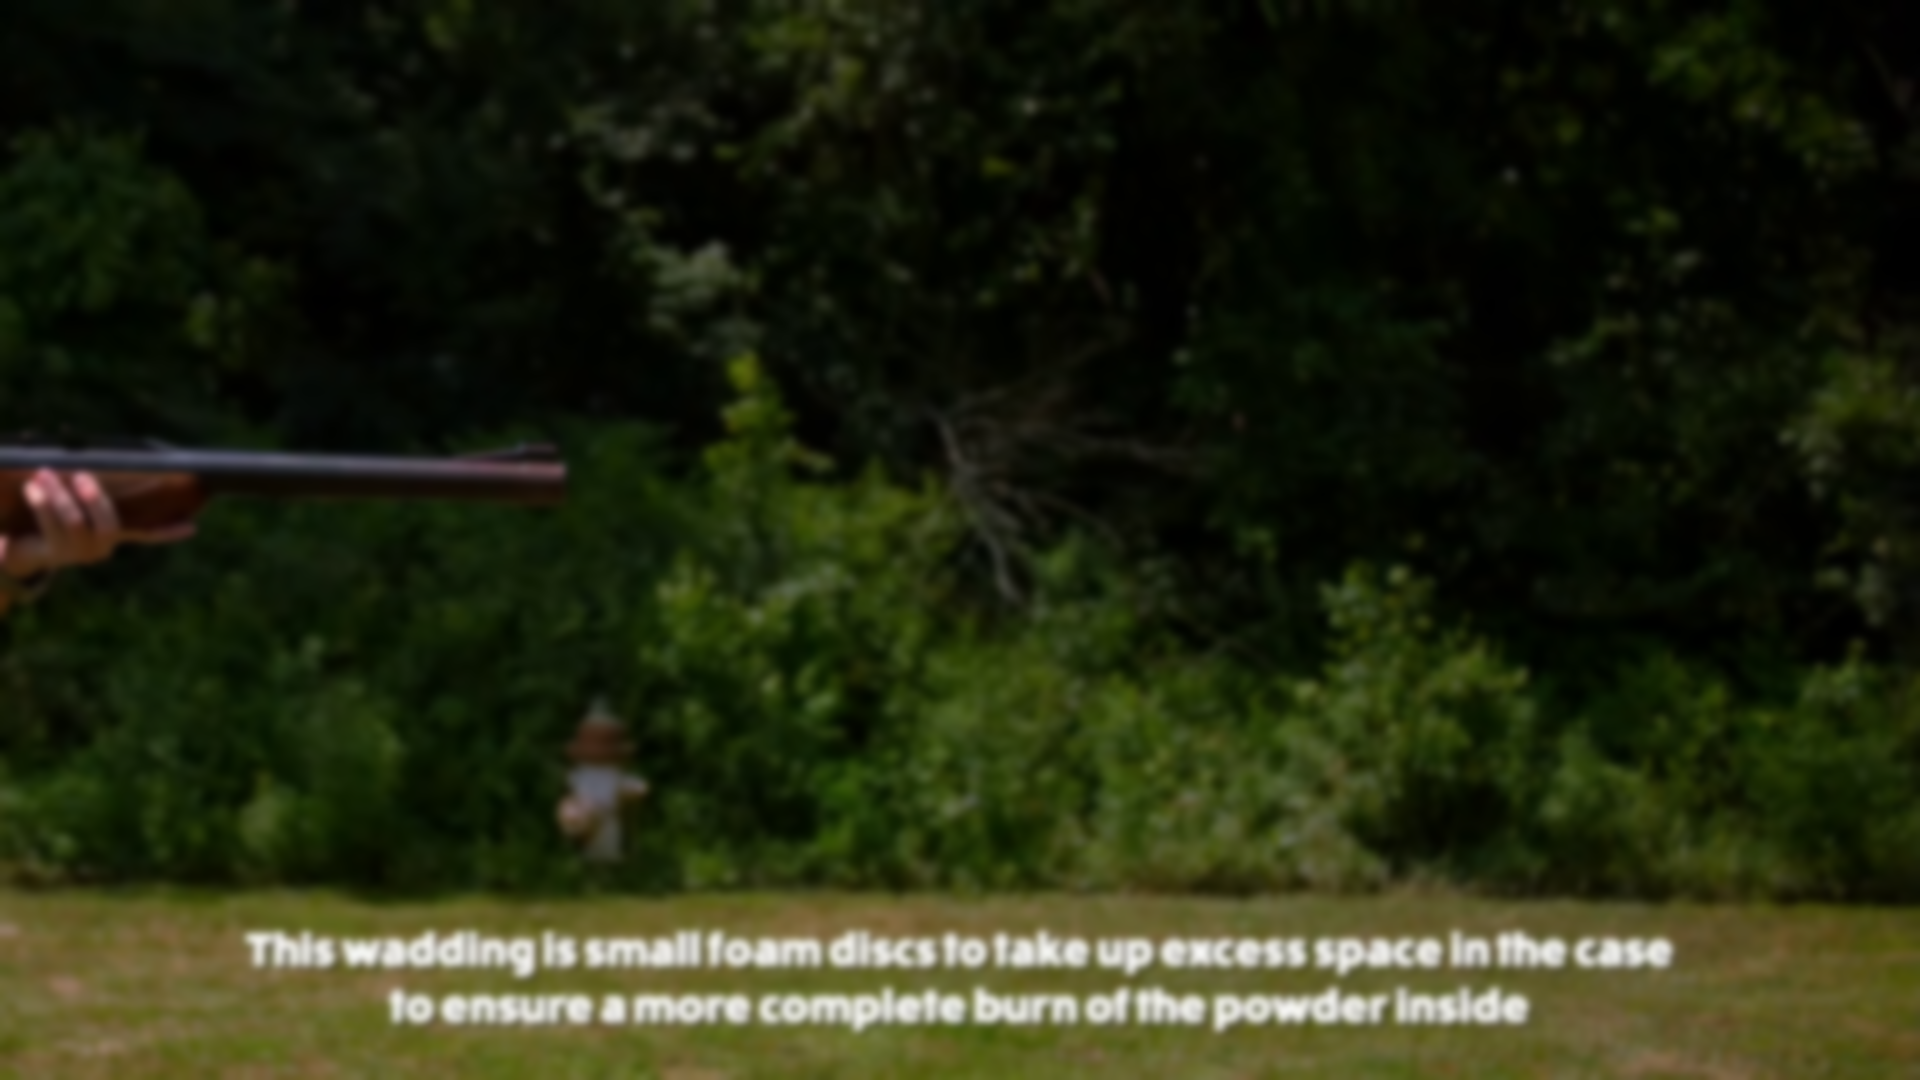
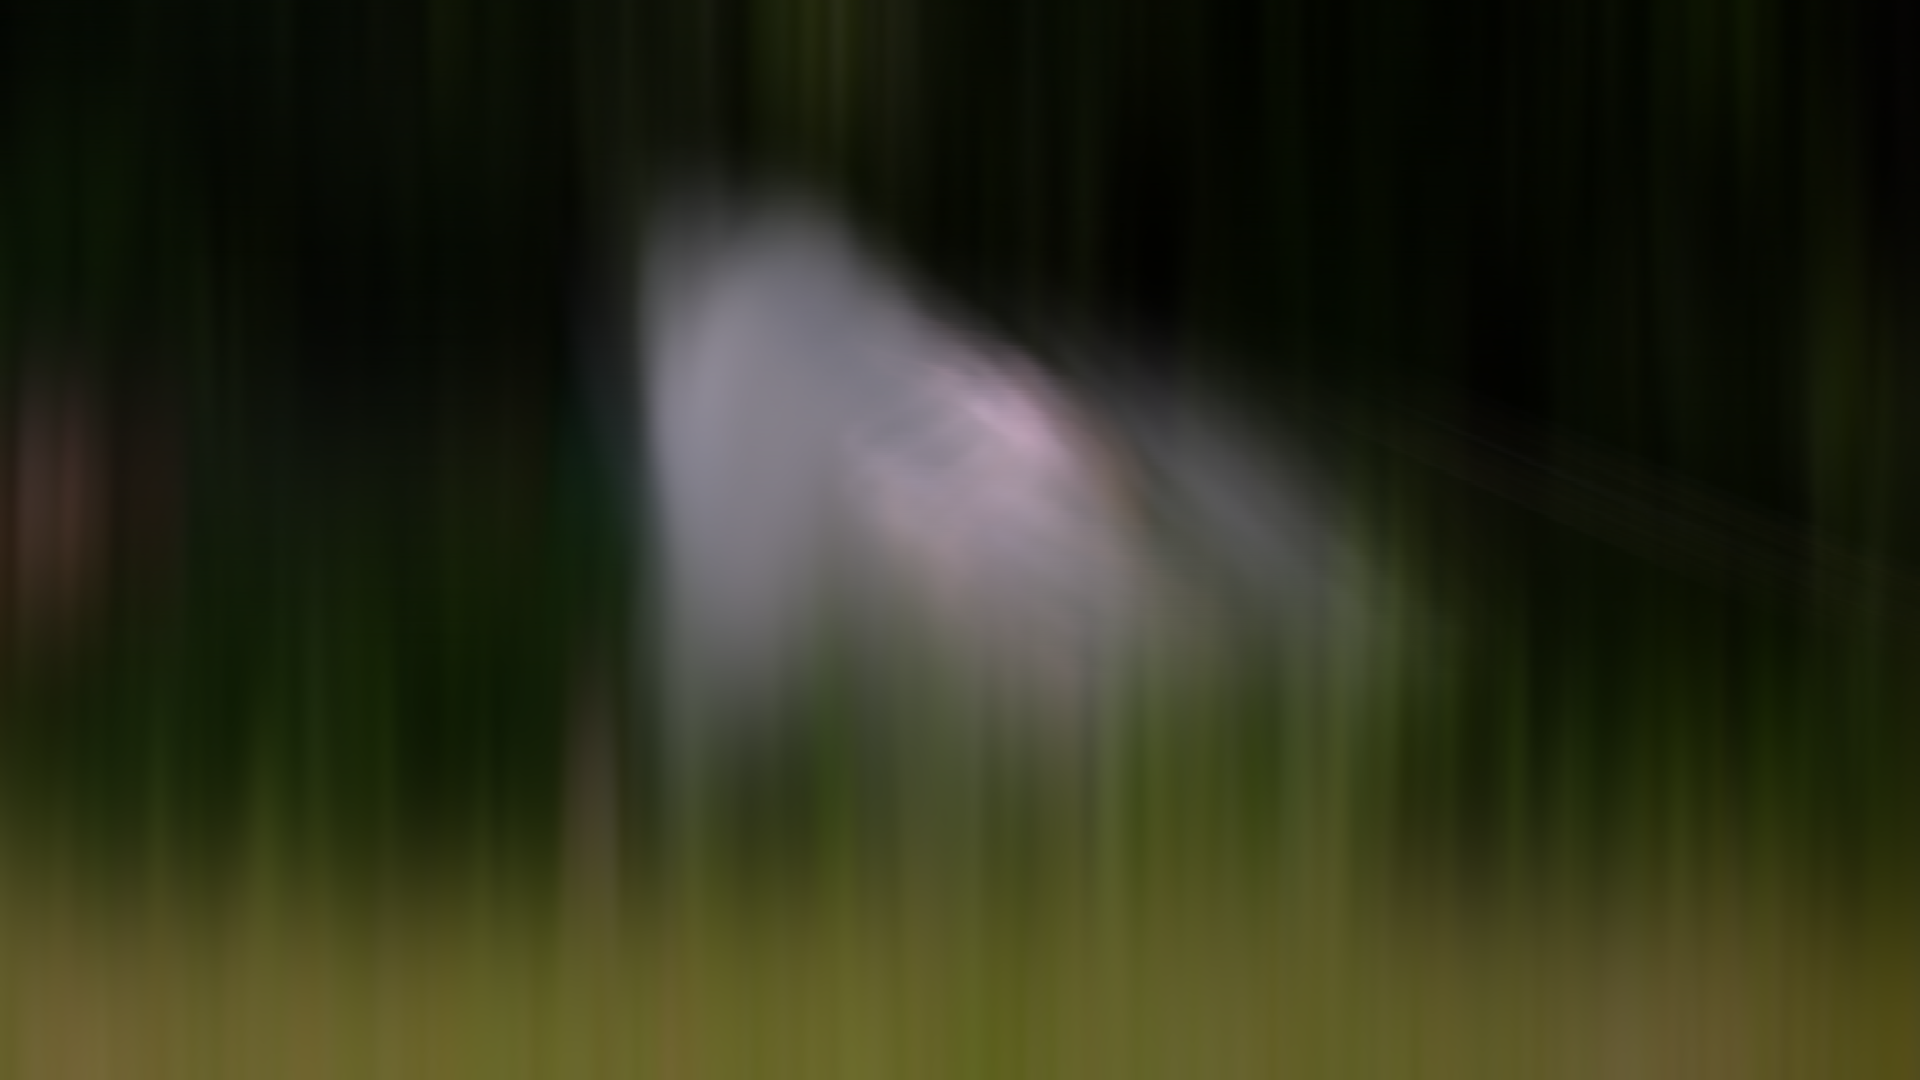
Automatic Kernel Size

diff --git a/src/simulate.py b/src/simulate.py
@@ -17,6 +17,7 @@ class RollingShutterConfig:
 	exposure_samples: int = 3
 	output_frames: int = 1
 	start_time_s: float = 0.0
+	source_fps: float = 48000
 
 
 def _normalize_kernel(kernel: np.ndarray) -> np.ndarray:
@@ -35,9 +36,43 @@ def build_gaussian_psf(kernel_size: int = 31, sigma: float = 4.0) -> np.ndarray:
 	return _normalize_kernel(kernel)
 
 
-def load_psf(psf_path: str | None = None, kernel_size: int = 31, sigma: float = 4.0) -> np.ndarray:
+def build_anisotropic_gaussian_psf(
+	kernel_size_x: int = 31,
+	kernel_size_y: int = 31,
+	sigma_x: float = 4.0,
+	sigma_y: float = 4.0,
+) -> np.ndarray:
+	if kernel_size_x % 2 == 0:
+		kernel_size_x += 1
+	if kernel_size_y % 2 == 0:
+		kernel_size_y += 1
+	gx = cv2.getGaussianKernel(kernel_size_x, sigma_x)
+	gy = cv2.getGaussianKernel(kernel_size_y, sigma_y)
+	kernel = gy @ gx.T
+	return _normalize_kernel(kernel)
+
+
+def load_psf(
+	psf_path: str | None = None,
+	kernel_size: int = 31,
+	sigma: float = 4.0,
+	kernel_size_x: int | None = None,
+	kernel_size_y: int | None = None,
+	sigma_x: float | None = None,
+	sigma_y: float | None = None,
+) -> np.ndarray:
 	if psf_path is None:
-		return build_gaussian_psf(kernel_size=kernel_size, sigma=sigma)
+		kx = kernel_size if kernel_size_x is None else kernel_size_x
+		ky = kernel_size if kernel_size_y is None else kernel_size_y
+		sx = sigma if sigma_x is None else sigma_x
+		sy = sigma if sigma_y is None else sigma_y
+		print(f"Kernel sizes: kx={kx}, ky={ky}, sigma_x={sx}, sigma_y={sy}")
+		return build_anisotropic_gaussian_psf(
+			kernel_size_x=kx,
+			kernel_size_y=ky,
+			sigma_x=sx,
+			sigma_y=sy,
+		)
 
 	psf = cv2.imread(psf_path, cv2.IMREAD_GRAYSCALE)
 	if psf is None:
@@ -67,6 +102,10 @@ def simulate_rolling_shutter(
 	psf_path: str | None = None,
 	gaussian_kernel_size: int = 31,
 	gaussian_sigma: float = 4.0,
+	gaussian_kernel_size_x: int | None = None,
+	gaussian_kernel_size_y: int | None = None,
+	gaussian_sigma_x: float | None = None,
+	gaussian_sigma_y: float | None = None,
 ) -> list[str]:
 	cap = load_video(video_path)
 	if cap is None:
@@ -76,12 +115,22 @@ def simulate_rolling_shutter(
 	width = props["width"]
 	height = props["height"]
 	src_fps = float(props["fps"])
+	if config.source_fps is not None:
+		src_fps = float(config.source_fps)
 	src_frames = int(props["frames"])
 
 	if config.exposure_samples < 1:
 		raise ValueError("exposure_samples must be >= 1")
 
-	psf_kernel = load_psf(psf_path, kernel_size=gaussian_kernel_size, sigma=gaussian_sigma)
+	psf_kernel = load_psf(
+		psf_path,
+		kernel_size=gaussian_kernel_size,
+		sigma=gaussian_sigma,
+		kernel_size_x=gaussian_kernel_size_x,
+		kernel_size_y=gaussian_kernel_size_y,
+		sigma_x=gaussian_sigma_x,
+		sigma_y=gaussian_sigma_y,
+	)
 
 	readout_s = config.readout_time_ms / 1000.0
 	exposure_s = config.exposure_time_ms / 1000.0

diff --git a/scripts/create_RS_image.py b/scripts/create_RS_image.py
@@ -42,6 +42,36 @@ def parse_args() -> argparse.Namespace:
 	parser.add_argument("--start-time", type=float, default=0.0)
 	parser.add_argument("--gaussian-kernel", type=int, default=31)
 	parser.add_argument("--gaussian-sigma", type=float, default=4.0)
+	parser.add_argument(
+		"--gaussian-kernel-x",
+		type=int,
+		default=None,
+		help="Optional Gaussian PSF kernel width in pixels.",
+	)
+	parser.add_argument(
+		"--gaussian-kernel-y",
+		type=int,
+		default=None,
+		help="Optional Gaussian PSF kernel height in pixels.",
+	)
+	parser.add_argument(
+		"--gaussian-sigma-x",
+		type=float,
+		default=None,
+		help="Optional Gaussian PSF sigma along x (pixels).",
+	)
+	parser.add_argument(
+		"--gaussian-sigma-y",
+		type=float,
+		default=None,
+		help="Optional Gaussian PSF sigma along y (pixels).",
+	)
+	parser.add_argument(
+		"--source-fps",
+		type=float,
+		default=None,
+		help="Override source video FPS used for temporal sampling (e.g., 48000).",
+	)
 	return parser.parse_args()
 
 
@@ -55,6 +85,7 @@ def main() -> None:
 		exposure_samples=args.samples,
 		output_frames=args.frames,
 		start_time_s=args.start_time,
+		source_fps=args.source_fps,
 	)
 
 	outputs = simulate_rolling_shutter(
@@ -64,6 +95,10 @@ def main() -> None:
 		psf_path=args.psf_image,
 		gaussian_kernel_size=args.gaussian_kernel,
 		gaussian_sigma=args.gaussian_sigma,
+		gaussian_kernel_size_x=args.gaussian_kernel_x,
+		gaussian_kernel_size_y=args.gaussian_kernel_y,
+		gaussian_sigma_x=args.gaussian_sigma_x,
+		gaussian_sigma_y=args.gaussian_sigma_y,
 	)
 
 	print("Wrote RS simulated frame(s):")

diff --git a/README.md b/README.md
@@ -10,6 +10,7 @@ The script below creates rolling-shutter images from a high-FPS source video and
 python scripts/create_RS_image.py \
 	--video data/Slow_Mo_Clip.mp4 \
 	--output-dir data/rs_output \
+	--source-fps 48000 \
 	--output-fps 30 \
 	--readout-ms 10 \
 	--exposure-ms 2 \
@@ -26,8 +27,25 @@ python scripts/create_RS_image.py \
 	--psf-image path/to/psf.png
 ```
 
+Use anisotropic Gaussian PSF (large vertical spread, small horizontal spread):
+
+```bash
+python scripts/create_RS_image.py \
+	--video data/Slow_Mo_Clip.mp4 \
+	--output-dir data/rs_output \
+	--source-fps 48000 \
+	--readout-ms 20 \
+	--exposure-ms 0.5 \
+	--gaussian-kernel-x 31 \
+	--gaussian-kernel-y 1081 \
+	--gaussian-sigma-x 4 \
+	--gaussian-sigma-y 180
+```
+
 Notes:
 - `--readout-ms` controls top-to-bottom rolling shutter scan time.
 - `--exposure-ms` controls per-row integration time.
 - `--samples` controls how many temporal samples are averaged per row.
+- `--source-fps` lets you force true source acquisition FPS when the file metadata is not accurate.
 - If `--psf-image` is omitted, a Gaussian PSF is used (`--gaussian-kernel`, `--gaussian-sigma`).
+- You can override isotropic blur with anisotropic controls (`--gaussian-kernel-x`, `--gaussian-kernel-y`, `--gaussian-sigma-x`, `--gaussian-sigma-y`).
